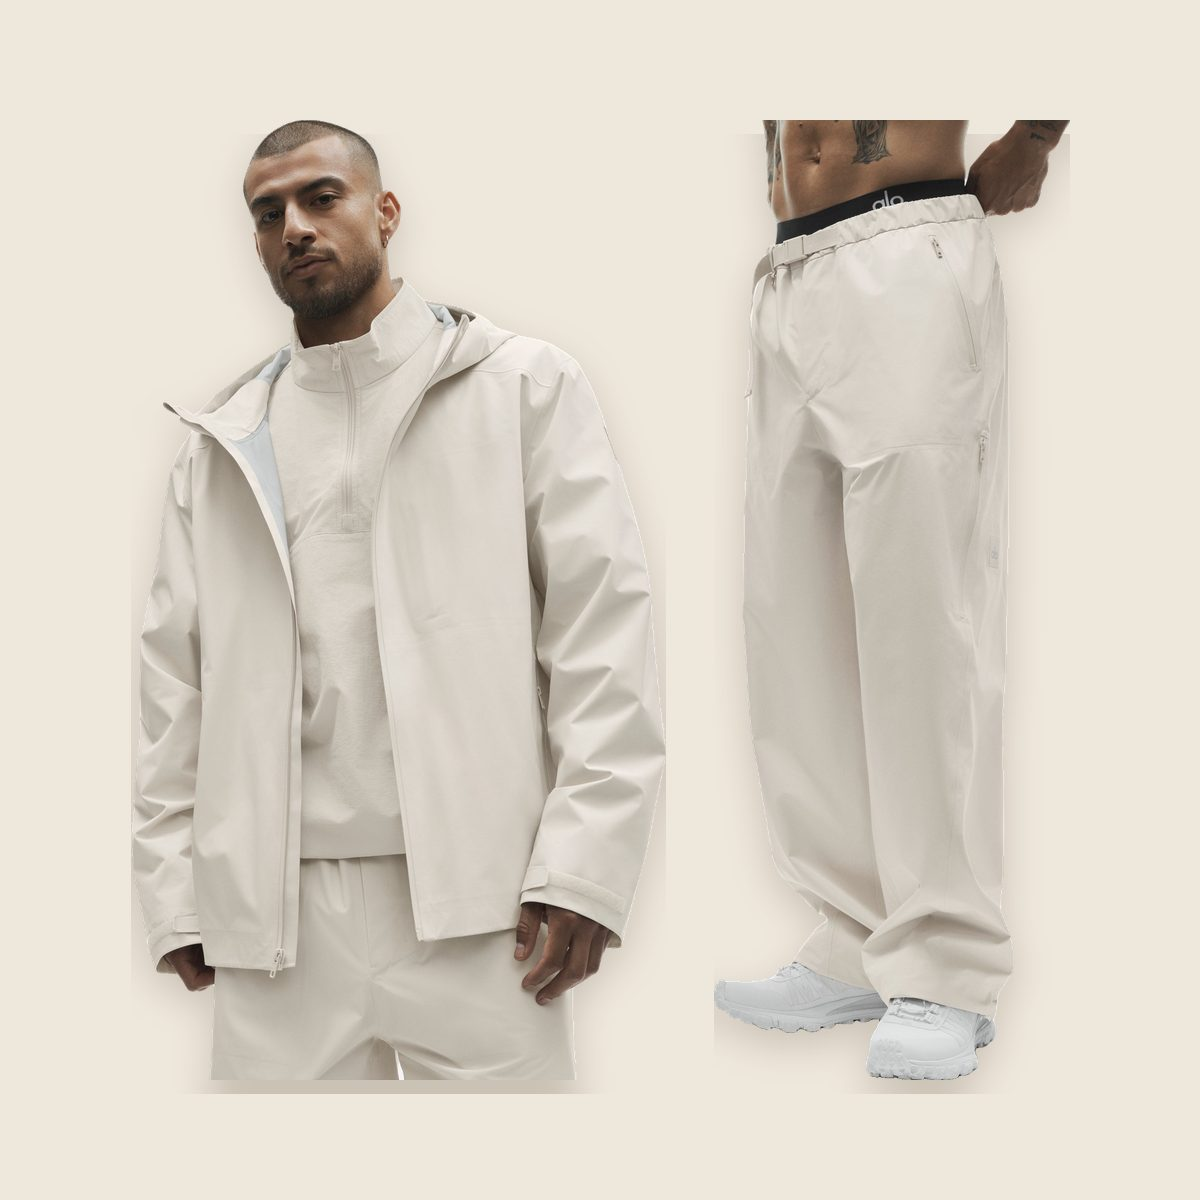
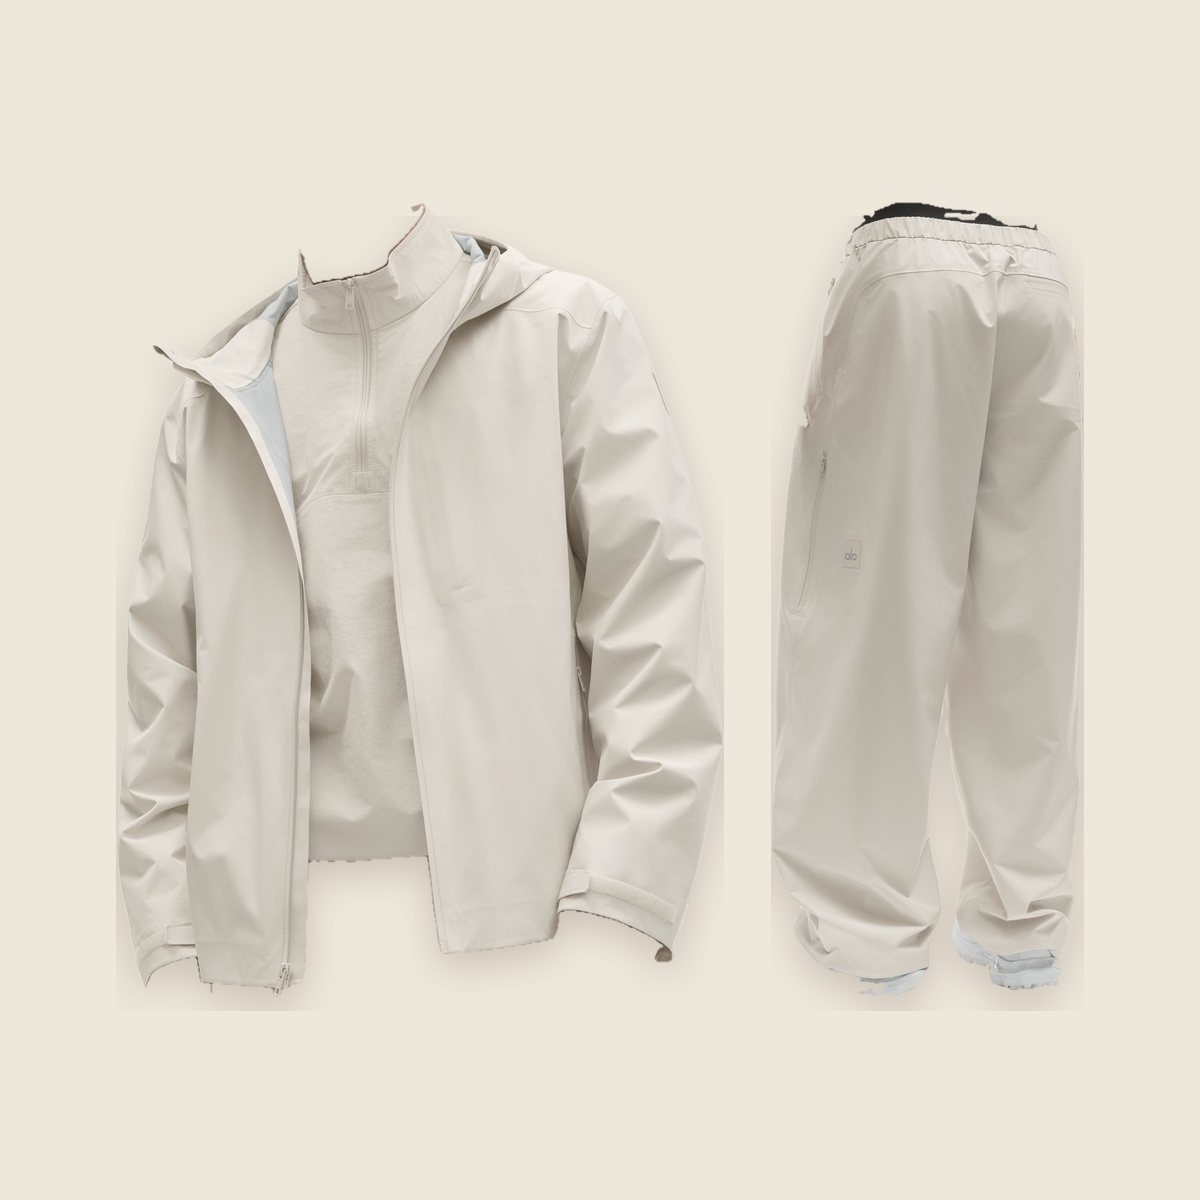
UGG à lacets, Alo Alpha sans mannequin, accueil : best-sellers avant promos
- 18 paires UGG à lacets : Lowmel (femme 6 coloris, homme 2), Lo Lowmel
  (femme 6, homme 2), Tasman Lace (2) ; bout vers la droite.
- Ensembles Alo Alpha Shell (6 coloris dont Rich Bordeaux) : veste et
  pantalon assortis en « mannequin invisible », photo portée en dernier.
- Accueil : best-sellers juste après les catégories, bulles marques nettes.

Claude-Session: https://claude.ai/code/session_013rzbw8KJy51MF9CjmJ7uZP

Changed region(s): [[0.1233, 0.0925, 0.925, 0.925], [0.0925, 0.4933, 0.185, 0.7708], [0.2158, 0.6475, 0.2467, 0.6783]]

diff --git a/assets/js/products.js b/assets/js/products.js
@@ -1396,6 +1396,14 @@ window.BASE_PRODUCTS = [
     description: "La veste Alpha Shell et son pantalon Alpha Shell : coupe-vent imperméable premium, l'ensemble technique d'Alo.",
     details: ["Veste + pantalon Alpha Shell", "Tissu imperméable et respirant", "Coupe relax", "Taille normalement"]
   },
+  {
+    id: "alo-alpha-shell-set-rich-bordeaux", group: "alo-alpha-shell-set",
+    name: "Ensemble Alo Alpha Shell Veste + Pantalon", color: "Rich Bordeaux", swatch: "#4a1f33",
+    brand: "alo", category: "ensembles", gender: "homme", price: 259, oldPrice: 329,
+    sizes: CLOTHING,
+    description: "La veste Alpha Shell et son pantalon Alpha Shell : coupe-vent imperméable premium, l'ensemble technique d'Alo.",
+    details: ["Veste + pantalon Alpha Shell", "Tissu imperméable et respirant", "Coupe relax", "Taille normalement"]
+  },
 
   /* ---------- LULULEMON — Pace Breaker ---------- */
   {
@@ -3319,5 +3327,151 @@ window.BASE_PRODUCTS = [
     sizes: CLOTHING,
     description: "La veste zippée Alo Conquer Max (col montant, tissu technique stretch) associée au pantalon Co-Op assorti : l'ensemble Alo pensé pour bouger et sortir.",
     details: ["Veste Conquer Max zippée + pantalon Co-Op", "Tissu technique stretch", "Coupe ajustée", "Taille normalement"]
+  },
+
+  /* ---------- UGG — Lowmel, Lo Lowmel, Tasman Lace ---------- */
+  {
+    id: "ugg-lowmel-w-black", group: "ugg-lowmel-w",
+    name: "UGG Lowmel Femme", color: "Black", swatch: "#0d0d0d",
+    brand: "ugg", category: "chaussures", gender: "femme", price: 109,
+    sizes: ["36", "37", "38", "39", "40", "41", "42"], tags: ["best"],
+    description: "La UGG Lowmel : sneaker en daim épais doublée de laine, gros lacets façon skate et semelle crantée. Le confort UGG en version sneaker.",
+    details: ["Daim et doublure laine", "Lacets épais", "Semelle Treadlite", "Taille normalement"]
+  },
+  {
+    id: "ugg-lowmel-w-chestnut", group: "ugg-lowmel-w",
+    name: "UGG Lowmel Femme", color: "Chestnut", swatch: "#72432a",
+    brand: "ugg", category: "chaussures", gender: "femme", price: 109,
+    sizes: ["36", "37", "38", "39", "40", "41", "42"], tags: ["best"],
+    description: "La UGG Lowmel : sneaker en daim épais doublée de laine, gros lacets façon skate et semelle crantée. Le confort UGG en version sneaker.",
+    details: ["Daim et doublure laine", "Lacets épais", "Semelle Treadlite", "Taille normalement"]
+  },
+  {
+    id: "ugg-lowmel-w-sand", group: "ugg-lowmel-w",
+    name: "UGG Lowmel Femme", color: "Sand", swatch: "#b78b6a",
+    brand: "ugg", category: "chaussures", gender: "femme", price: 109,
+    sizes: ["36", "37", "38", "39", "40", "41", "42"], tags: ["new"],
+    description: "La UGG Lowmel : sneaker en daim épais doublée de laine, gros lacets façon skate et semelle crantée. Le confort UGG en version sneaker.",
+    details: ["Daim et doublure laine", "Lacets épais", "Semelle Treadlite", "Taille normalement"]
+  },
+  {
+    id: "ugg-lowmel-w-rocky-oak", group: "ugg-lowmel-w",
+    name: "UGG Lowmel Femme", color: "Rocky Oak", swatch: "#452f2a",
+    brand: "ugg", category: "chaussures", gender: "femme", price: 109,
+    sizes: ["36", "37", "38", "39", "40", "41", "42"],
+    description: "La UGG Lowmel : sneaker en daim épais doublée de laine, gros lacets façon skate et semelle crantée. Le confort UGG en version sneaker.",
+    details: ["Daim et doublure laine", "Lacets épais", "Semelle Treadlite", "Taille normalement"]
+  },
+  {
+    id: "ugg-lowmel-w-dusty-orchid", group: "ugg-lowmel-w",
+    name: "UGG Lowmel Femme", color: "Dusty Orchid", swatch: "#b08585",
+    brand: "ugg", category: "chaussures", gender: "femme", price: 109,
+    sizes: ["36", "37", "38", "39", "40", "41", "42"], tags: ["new"],
+    description: "La UGG Lowmel : sneaker en daim épais doublée de laine, gros lacets façon skate et semelle crantée. Le confort UGG en version sneaker.",
+    details: ["Daim et doublure laine", "Lacets épais", "Semelle Treadlite", "Taille normalement"]
+  },
+  {
+    id: "ugg-lowmel-w-khaki", group: "ugg-lowmel-w",
+    name: "UGG Lowmel Femme", color: "Khaki", swatch: "#76533a",
+    brand: "ugg", category: "chaussures", gender: "femme", price: 109,
+    sizes: ["36", "37", "38", "39", "40", "41", "42"],
+    description: "La UGG Lowmel : sneaker en daim épais doublée de laine, gros lacets façon skate et semelle crantée. Le confort UGG en version sneaker.",
+    details: ["Daim et doublure laine", "Lacets épais", "Semelle Treadlite", "Taille normalement"]
+  },
+  {
+    id: "ugg-lowmel-m-black", group: "ugg-lowmel-m",
+    name: "UGG Lowmel Homme", color: "Black", swatch: "#040404",
+    brand: "ugg", category: "chaussures", gender: "homme", price: 109,
+    sizes: ["40", "41", "42", "43", "44", "45", "46"], tags: ["best"],
+    description: "La UGG Lowmel : sneaker en daim épais doublée de laine, gros lacets façon skate et semelle crantée. Le confort UGG en version sneaker.",
+    details: ["Daim et doublure laine", "Lacets épais", "Semelle Treadlite", "Taille normalement"]
+  },
+  {
+    id: "ugg-lowmel-m-chestnut", group: "ugg-lowmel-m",
+    name: "UGG Lowmel Homme", color: "Chestnut", swatch: "#6c3f27",
+    brand: "ugg", category: "chaussures", gender: "homme", price: 109,
+    sizes: ["40", "41", "42", "43", "44", "45", "46"], tags: ["best"],
+    description: "La UGG Lowmel : sneaker en daim épais doublée de laine, gros lacets façon skate et semelle crantée. Le confort UGG en version sneaker.",
+    details: ["Daim et doublure laine", "Lacets épais", "Semelle Treadlite", "Taille normalement"]
+  },
+  {
+    id: "ugg-lolowmel-w-black", group: "ugg-lolowmel-w",
+    name: "UGG Lo Lowmel Femme", color: "Black", swatch: "#262b29",
+    brand: "ugg", category: "chaussures", gender: "femme", price: 99,
+    sizes: ["36", "37", "38", "39", "40", "41", "42"],
+    description: "La Lo Lowmel : la version basse de la Lowmel, en daim, lacets épais et semelle légère. Facile à porter tous les jours.",
+    details: ["Daim", "Lacets épais", "Semelle légère", "Taille normalement"]
+  },
+  {
+    id: "ugg-lolowmel-w-chestnut", group: "ugg-lolowmel-w",
+    name: "UGG Lo Lowmel Femme", color: "Chestnut", swatch: "#745232",
+    brand: "ugg", category: "chaussures", gender: "femme", price: 99,
+    sizes: ["36", "37", "38", "39", "40", "41", "42"],
+    description: "La Lo Lowmel : la version basse de la Lowmel, en daim, lacets épais et semelle légère. Facile à porter tous les jours.",
+    details: ["Daim", "Lacets épais", "Semelle légère", "Taille normalement"]
+  },
+  {
+    id: "ugg-lolowmel-w-jasmine", group: "ugg-lolowmel-w",
+    name: "UGG Lo Lowmel Femme", color: "Jasmine", swatch: "#cebfa7",
+    brand: "ugg", category: "chaussures", gender: "femme", price: 99,
+    sizes: ["36", "37", "38", "39", "40", "41", "42"], tags: ["new"],
+    description: "La Lo Lowmel : la version basse de la Lowmel, en daim, lacets épais et semelle légère. Facile à porter tous les jours.",
+    details: ["Daim", "Lacets épais", "Semelle légère", "Taille normalement"]
+  },
+  {
+    id: "ugg-lolowmel-w-muted-brass", group: "ugg-lolowmel-w",
+    name: "UGG Lo Lowmel Femme", color: "Muted Brass", swatch: "#9e8e68",
+    brand: "ugg", category: "chaussures", gender: "femme", price: 99,
+    sizes: ["36", "37", "38", "39", "40", "41", "42"],
+    description: "La Lo Lowmel : la version basse de la Lowmel, en daim, lacets épais et semelle légère. Facile à porter tous les jours.",
+    details: ["Daim", "Lacets épais", "Semelle légère", "Taille normalement"]
+  },
+  {
+    id: "ugg-lolowmel-w-horizon-pink", group: "ugg-lolowmel-w",
+    name: "UGG Lo Lowmel Femme", color: "Horizon Pink", swatch: "#cfbbac",
+    brand: "ugg", category: "chaussures", gender: "femme", price: 99,
+    sizes: ["36", "37", "38", "39", "40", "41", "42"],
+    description: "La Lo Lowmel : la version basse de la Lowmel, en daim, lacets épais et semelle légère. Facile à porter tous les jours.",
+    details: ["Daim", "Lacets épais", "Semelle légère", "Taille normalement"]
+  },
+  {
+    id: "ugg-lolowmel-w-mustard-seed", group: "ugg-lolowmel-w",
+    name: "UGG Lo Lowmel Femme", color: "Mustard Seed", swatch: "#b0967a",
+    brand: "ugg", category: "chaussures", gender: "femme", price: 99,
+    sizes: ["36", "37", "38", "39", "40", "41", "42"],
+    description: "La Lo Lowmel : la version basse de la Lowmel, en daim, lacets épais et semelle légère. Facile à porter tous les jours.",
+    details: ["Daim", "Lacets épais", "Semelle légère", "Taille normalement"]
+  },
+  {
+    id: "ugg-lolowmel-m-black", group: "ugg-lolowmel-m",
+    name: "UGG Lo Lowmel Homme", color: "Black", swatch: "#2f2d2e",
+    brand: "ugg", category: "chaussures", gender: "homme", price: 99,
+    sizes: ["40", "41", "42", "43", "44", "45", "46"],
+    description: "La Lo Lowmel : la version basse de la Lowmel, en daim, lacets épais et semelle légère. Facile à porter tous les jours.",
+    details: ["Daim", "Lacets épais", "Semelle légère", "Taille normalement"]
+  },
+  {
+    id: "ugg-lolowmel-m-mustard-seed", group: "ugg-lolowmel-m",
+    name: "UGG Lo Lowmel Homme", color: "Mustard Seed", swatch: "#e2cdb8",
+    brand: "ugg", category: "chaussures", gender: "homme", price: 99,
+    sizes: ["40", "41", "42", "43", "44", "45", "46"],
+    description: "La Lo Lowmel : la version basse de la Lowmel, en daim, lacets épais et semelle légère. Facile à porter tous les jours.",
+    details: ["Daim", "Lacets épais", "Semelle légère", "Taille normalement"]
+  },
+  {
+    id: "ugg-tasmanlace-m-black", group: "ugg-tasmanlace-m",
+    name: "UGG Tasman Lace Homme", color: "Black", swatch: "#2b2d2e",
+    brand: "ugg", category: "chaussures", gender: "homme", price: 99,
+    sizes: ["40", "41", "42", "43", "44", "45", "46"],
+    description: "La Tasman à lacets : l'iconique Tasman en daim et laine, avec un laçage tressé sur le dessus.",
+    details: ["Daim et laine", "Laçage tressé", "Semelle Treadlite", "Taille normalement"]
+  },
+  {
+    id: "ugg-tasmanlace-m-chestnut", group: "ugg-tasmanlace-m",
+    name: "UGG Tasman Lace Homme", color: "Chestnut", swatch: "#815340",
+    brand: "ugg", category: "chaussures", gender: "homme", price: 99,
+    sizes: ["40", "41", "42", "43", "44", "45", "46"],
+    description: "La Tasman à lacets : l'iconique Tasman en daim et laine, avec un laçage tressé sur le dessus.",
+    details: ["Daim et laine", "Laçage tressé", "Semelle Treadlite", "Taille normalement"]
   }
 ];

diff --git a/assets/js/photos.js b/assets/js/photos.js
@@ -1090,7 +1090,8 @@ window.BASE_PHOTOS = {
   "alo-alpha-shell-set-bone": [
     "images/products/alo-alpha-shell-set-bone-1.jpg",
     "images/products/alo-alpha-shell-set-bone-2.jpg",
-    "images/products/alo-alpha-shell-set-bone-3.jpg"
+    "images/products/alo-alpha-shell-set-bone-3.jpg",
+    "images/products/alo-alpha-shell-set-bone-4.jpg"
   ],
 
   // Ensemble Alo Alpha Shell Veste + Pantalon — Espresso
@@ -1110,6 +1111,14 @@ window.BASE_PHOTOS = {
   ],
 
   // Ensemble Alo Alpha Shell Veste + Pantalon — Navy
+  // Ensemble Alo Alpha Shell Veste + Pantalon — Rich Bordeaux
+  "alo-alpha-shell-set-rich-bordeaux": [
+    "images/products/alo-alpha-shell-set-rich-bordeaux-1.jpg",
+    "images/products/alo-alpha-shell-set-rich-bordeaux-2.jpg",
+    "images/products/alo-alpha-shell-set-rich-bordeaux-3.jpg",
+    "images/products/alo-alpha-shell-set-rich-bordeaux-4.jpg"
+  ],
+
   "alo-alpha-shell-set-navy": [
     "images/products/alo-alpha-shell-set-navy-1.jpg",
     "images/products/alo-alpha-shell-set-navy-2.jpg",
@@ -1622,7 +1631,7 @@ window.BASE_PHOTOS = {
     "images/products/asics-kayano-14-1203a537-117-1.jpg"
   ],
 
-  // Mizuno Wave Prophecy LS — Wind Chime / Fallen Rock
+  // Mizuno Wave Prophecy LS — Beige (Wind Chime / Fallen Rock)
   "mizuno-wave-prophecy-590063-wc8q": [
     "images/products/mizuno-wave-prophecy-590063-wc8q-1.jpg"
   ],
@@ -2126,7 +2135,8 @@ window.BASE_PHOTOS = {
 
   // Casquette Sweet Pants Patchwork — Night
   "sweetpants-patchwork-cap-night": [
-    "images/products/sweetpants-patchwork-cap-night-2.jpg"
+    "images/products/sweetpants-patchwork-cap-night-2.jpg",
+    "images/products/sweetpants-patchwork-cap-night-1.jpg"
   ],
 
   // Casquette Sweet Pants Patchwork — Primrose
@@ -2608,5 +2618,109 @@ window.BASE_PHOTOS = {
     "images/products/alo-conquer-coop-set-navy-5.jpg",
     "images/products/alo-conquer-coop-set-navy-6.jpg",
     "images/products/alo-conquer-coop-set-navy-7.jpg"
+  ],
+
+  // UGG Lowmel Femme — Black
+  "ugg-lowmel-w-black": [
+    "images/products/ugg-lowmel-w-black-1.jpg",
+    "images/products/ugg-lowmel-w-black-2.jpg",
+    "images/products/ugg-lowmel-w-black-3.jpg"
+  ],
+
+  // UGG Lowmel Femme — Chestnut
+  "ugg-lowmel-w-chestnut": [
+    "images/products/ugg-lowmel-w-chestnut-1.jpg",
+    "images/products/ugg-lowmel-w-chestnut-2.jpg",
+    "images/products/ugg-lowmel-w-chestnut-3.jpg"
+  ],
+
+  // UGG Lowmel Femme — Sand
+  "ugg-lowmel-w-sand": [
+    "images/products/ugg-lowmel-w-sand-1.jpg"
+  ],
+
+  // UGG Lowmel Femme — Rocky Oak
+  "ugg-lowmel-w-rocky-oak": [
+    "images/products/ugg-lowmel-w-rocky-oak-1.jpg",
+    "images/products/ugg-lowmel-w-rocky-oak-2.jpg",
+    "images/products/ugg-lowmel-w-rocky-oak-3.jpg"
+  ],
+
+  // UGG Lowmel Femme — Dusty Orchid
+  "ugg-lowmel-w-dusty-orchid": [
+    "images/products/ugg-lowmel-w-dusty-orchid-1.jpg",
+    "images/products/ugg-lowmel-w-dusty-orchid-2.jpg",
+    "images/products/ugg-lowmel-w-dusty-orchid-3.jpg"
+  ],
+
+  // UGG Lowmel Femme — Khaki
+  "ugg-lowmel-w-khaki": [
+    "images/products/ugg-lowmel-w-khaki-1.jpg",
+    "images/products/ugg-lowmel-w-khaki-2.jpg",
+    "images/products/ugg-lowmel-w-khaki-3.jpg"
+  ],
+
+  // UGG Lowmel Homme — Black
+  "ugg-lowmel-m-black": [
+    "images/products/ugg-lowmel-m-black-1.jpg",
+    "images/products/ugg-lowmel-m-black-2.jpg",
+    "images/products/ugg-lowmel-m-black-3.jpg"
+  ],
+
+  // UGG Lowmel Homme — Chestnut
+  "ugg-lowmel-m-chestnut": [
+    "images/products/ugg-lowmel-m-chestnut-1.jpg",
+    "images/products/ugg-lowmel-m-chestnut-2.jpg",
+    "images/products/ugg-lowmel-m-chestnut-3.jpg"
+  ],
+
+  // UGG Lo Lowmel Femme — Black
+  "ugg-lolowmel-w-black": [
+    "images/products/ugg-lolowmel-w-black-1.jpg"
+  ],
+
+  // UGG Lo Lowmel Femme — Chestnut
+  "ugg-lolowmel-w-chestnut": [
+    "images/products/ugg-lolowmel-w-chestnut-1.jpg"
+  ],
+
+  // UGG Lo Lowmel Femme — Jasmine
+  "ugg-lolowmel-w-jasmine": [
+    "images/products/ugg-lolowmel-w-jasmine-1.jpg"
+  ],
+
+  // UGG Lo Lowmel Femme — Muted Brass
+  "ugg-lolowmel-w-muted-brass": [
+    "images/products/ugg-lolowmel-w-muted-brass-1.jpg"
+  ],
+
+  // UGG Lo Lowmel Femme — Horizon Pink
+  "ugg-lolowmel-w-horizon-pink": [
+    "images/products/ugg-lolowmel-w-horizon-pink-1.jpg"
+  ],
+
+  // UGG Lo Lowmel Femme — Mustard Seed
+  "ugg-lolowmel-w-mustard-seed": [
+    "images/products/ugg-lolowmel-w-mustard-seed-1.jpg"
+  ],
+
+  // UGG Lo Lowmel Homme — Black
+  "ugg-lolowmel-m-black": [
+    "images/products/ugg-lolowmel-m-black-1.jpg"
+  ],
+
+  // UGG Lo Lowmel Homme — Mustard Seed
+  "ugg-lolowmel-m-mustard-seed": [
+    "images/products/ugg-lolowmel-m-mustard-seed-1.jpg"
+  ],
+
+  // UGG Tasman Lace Homme — Black
+  "ugg-tasmanlace-m-black": [
+    "images/products/ugg-tasmanlace-m-black-1.jpg"
+  ],
+
+  // UGG Tasman Lace Homme — Chestnut
+  "ugg-tasmanlace-m-chestnut": [
+    "images/products/ugg-tasmanlace-m-chestnut-1.jpg"
   ]
 };

diff --git a/assets/js/app.js b/assets/js/app.js
@@ -619,14 +619,6 @@
         <div class="cats">${catTiles.map(([t, h, p, n]) => `<a class="cat" href="${h}"><div class="cat__art"><img src="images/home/cat-${p}.jpg" alt="${t}" loading="lazy"></div><div class="cat__label"><span>${t}</span><span class="mono">${n} pièces</span></div></a>`).join("")}</div>
       </div></section>
 
-      ${deals.length ? `<section class="band"><div class="wrap">
-        <div class="sec-head">
-          <div><span class="eyebrow deals__eyebrow">Prix réduits · tant qu'il reste des tailles</span><h2 class="h-xl">Les bonnes affaires</h2></div>
-          <div style="display:flex;gap:16px;align-items:center"><a class="link" href="${L.shop({ filter: "sale" })}">Tout voir</a>${railCtrl("rail-deals")}</div>
-        </div>
-        ${railHTML("rail-deals", deals)}
-      </div></section>` : ""}
-
       <section class="band best-band"><div class="wrap">
         <div class="sec-head">
           <div><span class="eyebrow">Les plus vendus</span><h2 class="h-xl">Best-sellers</h2></div>
@@ -645,6 +637,14 @@
         <div id="best-shoes" hidden>${railHTML("rail-best-shoes", bestShoes)}</div>
         <div id="best-acc" hidden>${railHTML("rail-best-acc", bestAcc)}</div>
       </div></section>
+
+      ${deals.length ? `<section class="band"><div class="wrap">
+        <div class="sec-head">
+          <div><span class="eyebrow deals__eyebrow">Prix réduits · tant qu'il reste des tailles</span><h2 class="h-xl">Les bonnes affaires</h2></div>
+          <div style="display:flex;gap:16px;align-items:center"><a class="link" href="${L.shop({ filter: "sale" })}">Tout voir</a>${railCtrl("rail-deals")}</div>
+        </div>
+        ${railHTML("rail-deals", deals)}
+      </div></section>` : ""}
 
 
       ${duoA && duoB ? `<section class="band band--mist"><div class="wrap duo">

diff --git a/assets/css/style.css b/assets/css/style.css
@@ -594,8 +594,8 @@ body[data-route="product"] .wa-fab, body[data-route="checkout"] .wa-fab, body[da
   -webkit-mask-image: linear-gradient(to right, #000 92%, transparent); mask-image: linear-gradient(to right, #000 92%, transparent); }
 .bubbles::-webkit-scrollbar { display: none; }
 .bubble { flex: 0 0 auto; display: grid; justify-items: center; gap: 8px; width: 96px; scroll-snap-align: start; }
-.bubble__img { width: 88px; height: 88px; border-radius: 50%; overflow: hidden; background: var(--mist); box-shadow: 0 0 0 1px var(--line); transition: box-shadow .2s var(--ease), transform .2s var(--ease); }
-.bubble__img img, .bubble__img svg { width: 100%; height: 100%; object-fit: cover; transform: scale(1.18); }
+.bubble__img { position: relative; display: block; isolation: isolate; width: 88px; height: 88px; border-radius: 50%; overflow: hidden; clip-path: circle(50%); background: var(--mist); box-shadow: 0 0 0 1px var(--line); transition: box-shadow .2s var(--ease), transform .2s var(--ease); }
+.bubble__img img, .bubble__img svg { position: absolute; inset: -9%; width: 118%; height: 118%; max-width: none; object-fit: cover; }
 .bubble:hover .bubble__img { box-shadow: 0 0 0 2px var(--ink); transform: translateY(-2px); }
 .bubble__name { font-size: var(--fs-xs); font-weight: 600; letter-spacing: .01em; text-align: center; white-space: nowrap; }
 @media (min-width: 900px) { .bubble { width: 112px; } .bubble__img { width: 104px; height: 104px; } .bubbles { gap: 24px; justify-content: safe center; } }
